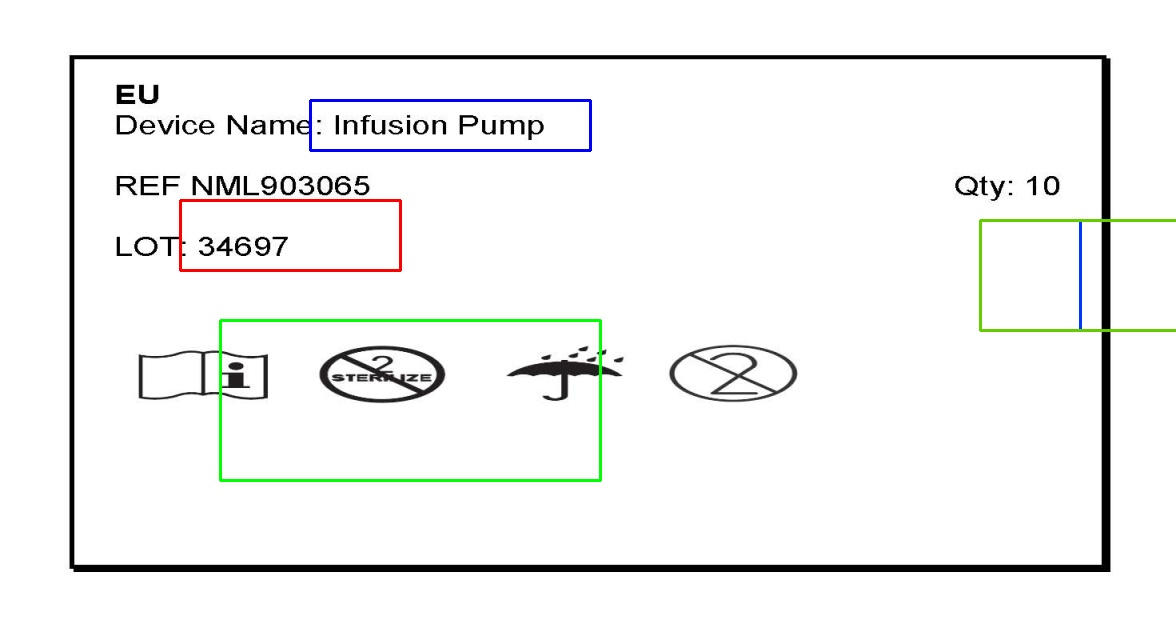
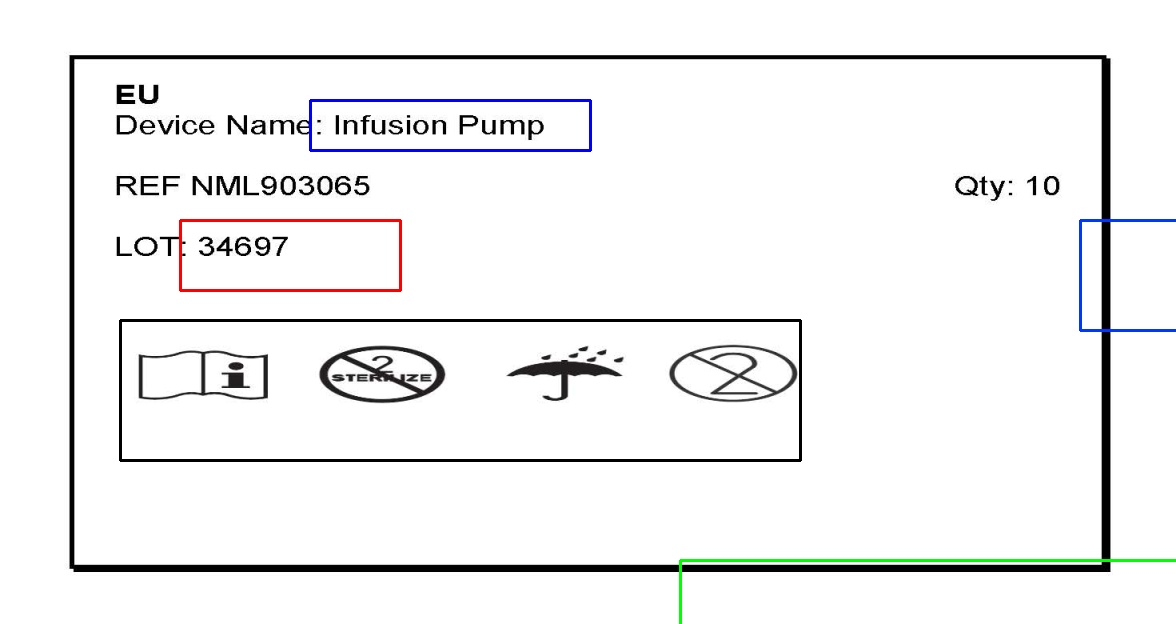
file added

diff --git a/backup.py b/backup.py
@@ -52,16 +52,18 @@ for i in range(len(os.listdir(datadir))):
         #     crop_img = img_array[y:y+h, x:x+w]
         # else:
         #     print('Correct Type!')
-        if img_type == 'lot':
+        if img_type == 'ref':
+            img=cv2.rectangle(img_array,(x,y),(x+w,y+h),(55,0,255),2)
+        elif img_type == 'lot':
             img=cv2.rectangle(img_array,(x,y),(x+w,y+h),(0,0,255),2)
         elif img_type == 'device':
             img=cv2.rectangle(img_array,(x,y),(x+w,y+h),(255,0,0),2)
-        elif img_type == 'ref':
-            img=cv2.rectangle(img_array,(x,y),(x+w,y+h),(0,255,0),2)
         elif img_type == 'qty':
             img=cv2.rectangle(img_array,(x,y),(x+w,y+h),(255,55,0),2)
-        elif img_type == 'symbol':
-            img=cv2.rectangle(img_array,(x,y),(x+w,y+h),(0,205,100),2)
+        elif img_type == 'symbol1':
+            img=cv2.rectangle(img_array,(x,y),(x+w,y+h),(0,0,0),2)
+        elif img_type == 'symbol2':
+            img=cv2.rectangle(img_array,(x,y),(x+w,y+h),(0,255,0),2)
         else:
             print('Correct Type!')
         boxed_img = cv2.imwrite("boxed_img{}.jpg" .format(i), img)
@@ -69,12 +71,12 @@ for i in range(len(os.listdir(datadir))):
         y=y+8
         crop_img = img_array[y:y+h, x:x+w]
         return crop_img, img, boxed_img
-
-    cropped_lot_img = crop(180,200,220,70, img_type='lot')
+    cropped_ref_img = crop(680,560,920,180, img_type='ref')
+    cropped_lot_img = crop(180,220,220,70, img_type='lot')
     cropped_device_img = crop(310,100,280,50, img_type='device')
-    cropped_ref_img = crop(220,320,380,160, img_type='ref')
+    cropped_symbol1_img = crop(120,320,680,140, img_type='symbol1')
     cropped_qty_img = crop(1080,220,980,110, img_type='qty')
-    cropped_symbol_img = crop(980,220,920,110, img_type='symbol')
+    cropped_symbol2_img = crop(680,560,920,180, img_type='symbol2')
 
     cv2.imwrite("cropped_ref_img.jpg", cropped_ref_img[0])
     cv2.imwrite("Image_output\device\cropped_device_img.jpg",cropped_device_img)
